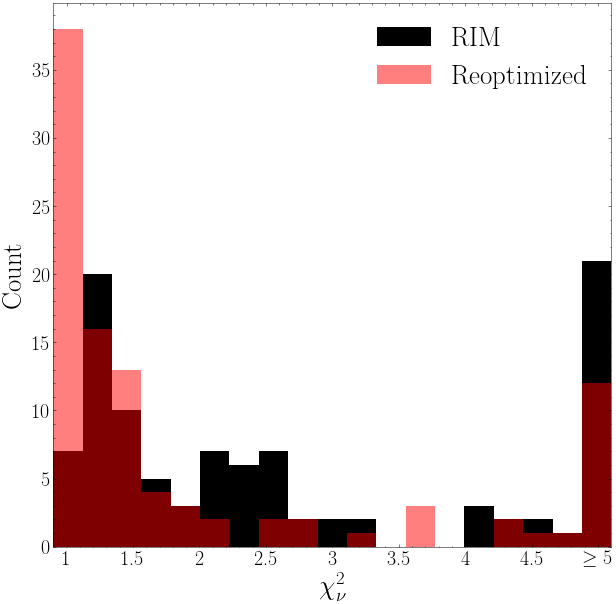
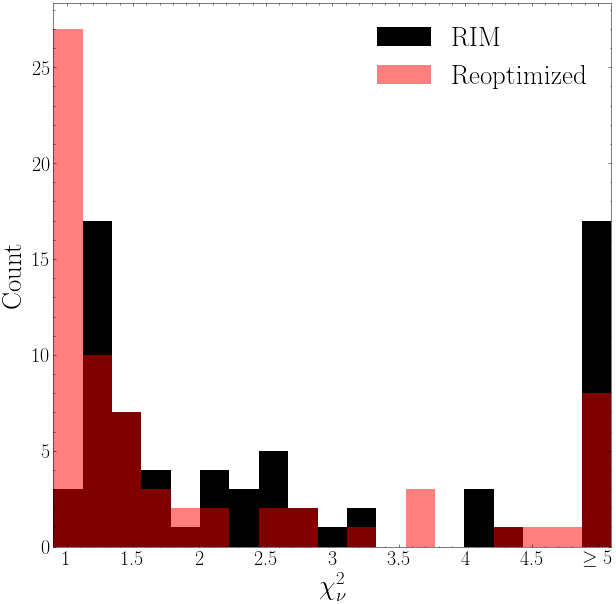
Added experiment to optimize on resampled data
Former-commit-id: 2bec7e0097ad0c1e0de2721ddf944a8c987ead10
Former-commit-id: fbc56bcf3e078ffd48a3b5c9c72a4babcf53422e [formerly 0a899fb44bc06169ae5fdff33046bc8395775b19]
Former-commit-id: 5d5eb1fed4d719bcf2e1e9cee1530a372b60e2b8

diff --git a/scripts/rim_results_v4_and_optim_posterior2.py b/scripts/rim_results_v4_and_optim_posterior2.py
@@ -93,6 +93,7 @@ def distributed_strategy(args):
             g.create_dataset(name="lens_pred_reoptimized",                  shape=[data_len, phys.pixels, phys.pixels, 1],                                      dtype=np.float32)
             g.create_dataset(name="lens_pred_reoptimized_mean",             shape=[data_len, phys.pixels, phys.pixels, 1],                                      dtype=np.float32)
             g.create_dataset(name="lens_pred_reoptimized_var",              shape=[data_len, phys.pixels, phys.pixels, 1],                                      dtype=np.float32)
+            g.create_dataset(name="lens_pred_reoptimized_mean_pred",        shape=[data_len, phys.pixels, phys.pixels, 1],                                      dtype=np.float32)
             g.create_dataset(name="source_prior",                           shape=[data_len, phys.src_pixels, phys.src_pixels, 1],                              dtype=np.float32)
             g.create_dataset(name="source_pred",                            shape=[data_len, rim.steps, phys.src_pixels, phys.src_pixels, 1],                   dtype=np.float32)
             g.create_dataset(name="source_pred_reoptimized",                shape=[data_len, phys.src_pixels, phys.src_pixels, 1],                              dtype=np.float32)
@@ -106,6 +107,7 @@ def distributed_strategy(args):
             g.create_dataset(name="chi_squared",                            shape=[data_len, rim.steps],                                                        dtype=np.float32)
             g.create_dataset(name="chi_squared_reoptimized",                shape=[data_len, rim.steps],                                                        dtype=np.float32)
             g.create_dataset(name="chi_squared_reoptimized_series",         shape=[data_len, rim.steps, args.re_optimize_steps],                                dtype=np.float32)
+            g.create_dataset(name="chi_squared_reoptimized_mean_pred_series", shape=[data_len, rim.steps, args.re_optimize_steps],                                dtype=np.float32)
             g.create_dataset(name="sampled_chi_squared_reoptimized_series", shape=[data_len, args.re_optimize_steps],                                           dtype=np.float32)
             g.create_dataset(name="source_optim_mse",                       shape=[data_len],                                                                   dtype=np.float32)
             g.create_dataset(name="source_optim_mse_series",                shape=[data_len, args.re_optimize_steps],                                           dtype=np.float32)
@@ -141,28 +143,9 @@ def distributed_strategy(args):
                 source_o = source_pred[-1]
                 kappa_o = kappa_pred[-1]
 
-                # ===================== VAE SAMPLING for PRIOR ==============================
                 # Ground truth latent code for oracle metrics
                 z_source_gt, _ = source_vae.encoder(source)
                 z_kappa_gt, _ = kappa_vae.encoder(log_10(kappa))
-
-                # Latent code of model predictions
-                z_source, _ = source_vae.encoder(source_o)
-                z_kappa, _ = kappa_vae.encoder(log_10(kappa_o))
-
-                # L1 distance with ground truth in latent space -- this is changed by an user defined value when using real data
-                # z_source_std = tf.abs(z_source - z_source_gt)
-                # z_kappa_std = tf.abs(z_kappa - z_kappa_gt)
-                z_source_std = args.source_vae_ball_size
-                z_kappa_std = args.kappa_vae_ball_size
-
-                # Sample latent code, then decode and forward
-                z_s = tf.random.normal(shape=[args.sample_size, source_vae.latent_size], mean=z_source, stddev=z_source_std)
-                z_k = tf.random.normal(shape=[args.sample_size, kappa_vae.latent_size],  mean=z_kappa,  stddev=z_kappa_std)
-                sampled_source = tf.nn.relu(source_vae.decode(z_s))
-                sampled_source /= tf.reduce_max(sampled_source, axis=(1, 2, 3), keepdims=True)  # make sampled source normalized and positive
-                sampled_kappa = kappa_vae.decode(z_k)  # output in log_10 space
-                sampled_lens = phys.noisy_forward(sampled_source, 10**sampled_kappa, noise_rms, tf.tile(psf, [args.sample_size, 1, 1, 1]))  # for posterity and fishing experiments
 
                 # Re-optimize weights of the model
                 STEPS = args.re_optimize_steps
@@ -175,6 +158,7 @@ def distributed_strategy(args):
                 optim = tf.keras.optimizers.RMSprop(learning_rate=learning_rate_schedule)
 
                 chi_squared_series = tf.TensorArray(DTYPE, size=STEPS)
+                chi_squared_series_mean_pred = tf.TensorArray(DTYPE, size=STEPS)
                 source_mse = tf.TensorArray(DTYPE, size=STEPS)
                 kappa_mse = tf.TensorArray(DTYPE, size=STEPS)
                 sampled_chi_squared_series = tf.TensorArray(DTYPE, size=STEPS)
@@ -194,40 +178,51 @@ def distributed_strategy(args):
                 source_mse_best = tf.reduce_mean((source_best - source) ** 2)
                 kappa_mse_best = tf.reduce_mean((kappa_best - log_10(kappa)) ** 2)
                 for current_step in tqdm(range(STEPS)):
+                    if current_step % args.resample_every == 0:
+                        # ===================== VAE SAMPLING for PRIOR ==============================
+                        # Latent code of model predictions
+                        z_source, _ = source_vae.encoder(source_o)
+                        z_kappa, _ = kappa_vae.encoder(log_10(kappa_o))
+
+                        # L1 distance with ground truth in latent space -- this is changed by an user defined value when using real data
+                        # z_source_std = tf.abs(z_source - z_source_gt)
+                        # z_kappa_std = tf.abs(z_kappa - z_kappa_gt)
+                        z_source_std = args.source_vae_ball_size
+                        z_kappa_std = args.kappa_vae_ball_size
+
+                        # Sample latent code, then decode and forward
+                        z_s = tf.random.normal(shape=[args.sample_size, source_vae.latent_size], mean=z_source, stddev=z_source_std)
+                        z_k = tf.random.normal(shape=[args.sample_size, kappa_vae.latent_size], mean=z_kappa, stddev=z_kappa_std)
+                        sampled_source = tf.nn.relu(source_vae.decode(z_s))
+                        sampled_source /= tf.reduce_max(sampled_source, axis=(1, 2, 3), keepdims=True)
+                        sampled_kappa = kappa_vae.decode(z_k)  # output in log_10 space
+                        sampled_lens = phys.noisy_forward(sampled_source, 10 ** sampled_kappa, noise_rms, tf.tile(psf, [args.sample_size, 1, 1, 1]))
+
+                    # ===================== Optimization ==============================
                     with tf.GradientTape() as tape:
                         tape.watch(unet.trainable_variables)
-                        # log likelihood
-                        noise = tf.random.normal(shape=lens.shape, stddev=noise_rms)
-                        s, k, chi_sq = rim.call(lens - noise, noise_rms, psf, outer_tape=tape) # experiment 4, try to add noise to input to remove noise leakage?
-                        # s, k, chi_sq = rim.call(lens, noise_rms, psf, outer_tape=tape) # was using this in experiment 1 and 2 + only single sample for mse
-                        cost = tf.reduce_mean(chi_sq)
-                        # log prior
-                        s_s, s_k, s_chi_sq = rim.call(sampled_lens, noise_rms, tf.tile(psf, [args.sample_size, 1, 1, 1]), outer_tape=tape)
-                        _kappa_mse = tf.reduce_sum(wk(10**sampled_kappa) * (s_k - sampled_kappa) ** 2, axis=(2, 3, 4))
-                        cost += tf.reduce_mean(_kappa_mse)
-                        cost += tf.reduce_mean((s_s - sampled_source)**2)
+                        s, k, chi_sq = rim.call(sampled_lens, noise_rms, tf.tile(psf, [args.sample_size, 1, 1, 1]), outer_tape=tape)
+                        _kappa_mse = tf.reduce_sum(wk(10**sampled_kappa) * (k - sampled_kappa) ** 2, axis=(2, 3, 4))
+                        cost = tf.reduce_mean(_kappa_mse)
+                        cost += tf.reduce_mean((s - sampled_source)**2)
                         cost += tf.reduce_sum(rim.unet.losses)  # weight decay
 
                     grads = tape.gradient(cost, unet.trainable_variables)
                     optim.apply_gradients(zip(grads, unet.trainable_variables))
 
                     # Record performance on sampled dataset
-                    sampled_chi_squared_series = sampled_chi_squared_series.write(index=current_step, value=tf.squeeze(tf.reduce_mean(s_chi_sq[-1])))
-                    sampled_source_mse = sampled_source_mse.write(index=current_step, value=tf.reduce_mean((s_s[-1] - sampled_source) ** 2))
-                    sampled_kappa_mse = sampled_kappa_mse.write(index=current_step, value=tf.reduce_mean((s_k[-1] - sampled_kappa) ** 2))
+                    sampled_chi_squared_series = sampled_chi_squared_series.write(index=current_step, value=tf.squeeze(tf.reduce_mean(chi_sq[-1])))
+                    sampled_source_mse = sampled_source_mse.write(index=current_step, value=tf.reduce_mean((s[-1] - sampled_source) ** 2))
+                    sampled_kappa_mse = sampled_kappa_mse.write(index=current_step, value=tf.reduce_mean((k[-1] - sampled_kappa) ** 2))
                     # Record model prediction on data
+                    s, k, chi_sq = rim.call(lens, noise_rms, psf)
                     chi_squared_series = chi_squared_series.write(index=current_step, value=tf.squeeze(chi_sq))
                     source_o = s[-1]
                     kappa_o = k[-1]
                     # oracle metrics, remove when using real data
                     source_mse = source_mse.write(index=current_step, value=tf.reduce_mean((source_o - source) ** 2))
                     kappa_mse = kappa_mse.write(index=current_step, value=tf.reduce_mean((kappa_o - log_10(kappa)) ** 2))
-                    # Early stopping could be replaced altogether by window averaging... (could we use SLGD here? In the mean time use approximate sampling from RMSprop)
-                    # if 2 * chi_sq[-1, 0] < args.converged_chisq:
-                    #     source_best = source_o
-                    #     kappa_best = 10**kappa_o
-                    #     best = chi_sq[-1, 0]
-                    #     break
+
                     if chi_sq[-1, 0] < best[-1, 0]:
                         source_best = tf.nn.relu(source_o)
                         kappa_best = 10**kappa_o
@@ -255,14 +250,21 @@ def distributed_strategy(args):
                         delta2 = y_o - y_mean
                         y_var += delta * delta2
 
+                    y_mean_pred = phys.forward(tf.nn.relu(source_mean), 10**kappa_mean, psf)
+                    chisq = tf.reduce_mean((y_mean_pred - lens)**2/noise_rms[:, None, None, None]**2)
+                    chi_squared_series_mean_pred = chi_squared_series_mean_pred.write(step=current_step, value=chisq)
+
                 source_o = source_best
                 kappa_o = kappa_best
                 y_pred = phys.forward(source_o, kappa_o, psf)
+
+                y_mean_pred = phys.forward(tf.nn.relu(source_mean), 10 ** kappa_mean, psf)
 
                 chi_sq_series = tf.transpose(chi_squared_series.stack())
                 source_mse = source_mse.stack()
                 kappa_mse = kappa_mse.stack()
                 sampled_chi_squared_series = sampled_chi_squared_series.stack()
+                chi_squared_series_mean_pred = chi_squared_series_mean_pred.stack()
                 sampled_source_mse = sampled_source_mse.stack()
                 sampled_kappa_mse = sampled_kappa_mse.stack()
                 kappa_var /= float(STEPS - args.burn_in)
@@ -276,7 +278,7 @@ def distributed_strategy(args):
                 # Compute Power spectrum of converged predictions
                 _ps_lens = ps_lens.cross_correlation_coefficient(lens[..., 0], lens_pred[..., 0])
                 _ps_lens2 = ps_lens.cross_correlation_coefficient(lens[..., 0], y_pred[..., 0])
-                _ps_lens3 = ps_lens.cross_correlation_coefficient(lens[..., 0], y_mean[..., 0])
+                _ps_lens3 = ps_lens.cross_correlation_coefficient(lens[..., 0], y_mean_pred[..., 0])
                 _ps_kappa = ps_kappa.cross_correlation_coefficient(log_10(kappa)[..., 0], log_10(kappa_pred[-1])[..., 0])
                 _ps_kappa2 = ps_kappa.cross_correlation_coefficient(log_10(kappa)[..., 0], log_10(kappa_o[..., 0]))
                 _ps_kappa3 = ps_kappa.cross_correlation_coefficient(log_10(kappa)[..., 0], kappa_mean[..., 0])
@@ -300,6 +302,7 @@ def distributed_strategy(args):
                 g["lens_pred_reoptimized"][batch] = y_pred.numpy().astype(np.float32)
                 g["lens_pred_reoptimized_mean"][batch] = y_mean.numpy().astype(np.float32)
                 g["lens_pred_reoptimized_var"][batch] = y_var.numpy().astype(np.float32)
+                g["lens_pred_reoptimized_mean_pred"][batch] = y_mean_pred.numpy().astype(np.float32)
                 g["source_prior"][batch] = sampled_source[0].numpy().astype(np.float32)
                 g["source_pred"][batch] = tf.transpose(source_pred, perm=(1, 0, 2, 3, 4)).numpy().astype(np.float32)
                 g["source_pred_reoptimized"][batch] = source_o.numpy().astype(np.float32)
@@ -314,6 +317,7 @@ def distributed_strategy(args):
                 g["chi_squared_reoptimized"][batch] = 2*tf.squeeze(best).numpy().astype(np.float32)
                 g["chi_squared_reoptimized_series"][batch] = 2*chi_sq_series.numpy().astype(np.float32)
                 g["sampled_chi_squared_reoptimized_series"][batch] = 2*sampled_chi_squared_series.numpy().astype(np.float32)
+                g["chi_squared_reoptimized_mean_pred_series"][batch] = chi_squared_series_mean_pred.numpy().astype(np.float32)
                 g["source_optim_mse"][batch] = source_mse_best.numpy().astype(np.float32)
                 g["source_optim_mse_series"][batch] = source_mse.numpy().astype(np.float32)
                 g["sampled_source_optim_mse_series"][batch] = sampled_source_mse.numpy().astype(np.float32)
@@ -364,8 +368,8 @@ if __name__ == '__main__':
     parser.add_argument("--source_coherence_bins",  default=40,     type=int)
     parser.add_argument("--kappa_coherence_bins",   default=40,     type=int)
     parser.add_argument("--re_optimize_steps",  default=2000,       type=int)
-    parser.add_argument("--burn-in",            default=100,        type=int)
-    parser.add_argument("--converged_chisq",    default=1.0,        type=float, help="Value of the chisq that is considered converged.")
+    parser.add_argument("--burn-in",            default=200,        type=int)
+    parser.add_argument("--resample_every",     default=50,         type=int,   help="Resample from the VAE every x steps")
     parser.add_argument("--source_vae_ball_size",   default=0.5,    type=float, help="Standard deviation of the source VAE latent space sampling around RIM prediction")
     parser.add_argument("--kappa_vae_ball_size",    default=0.5,    type=float, help="Standard deviation of the kappa VAE latent space sampling around RIM prediction")
     parser.add_argument("--l2_amp",             default=1e-6,       type=float)
